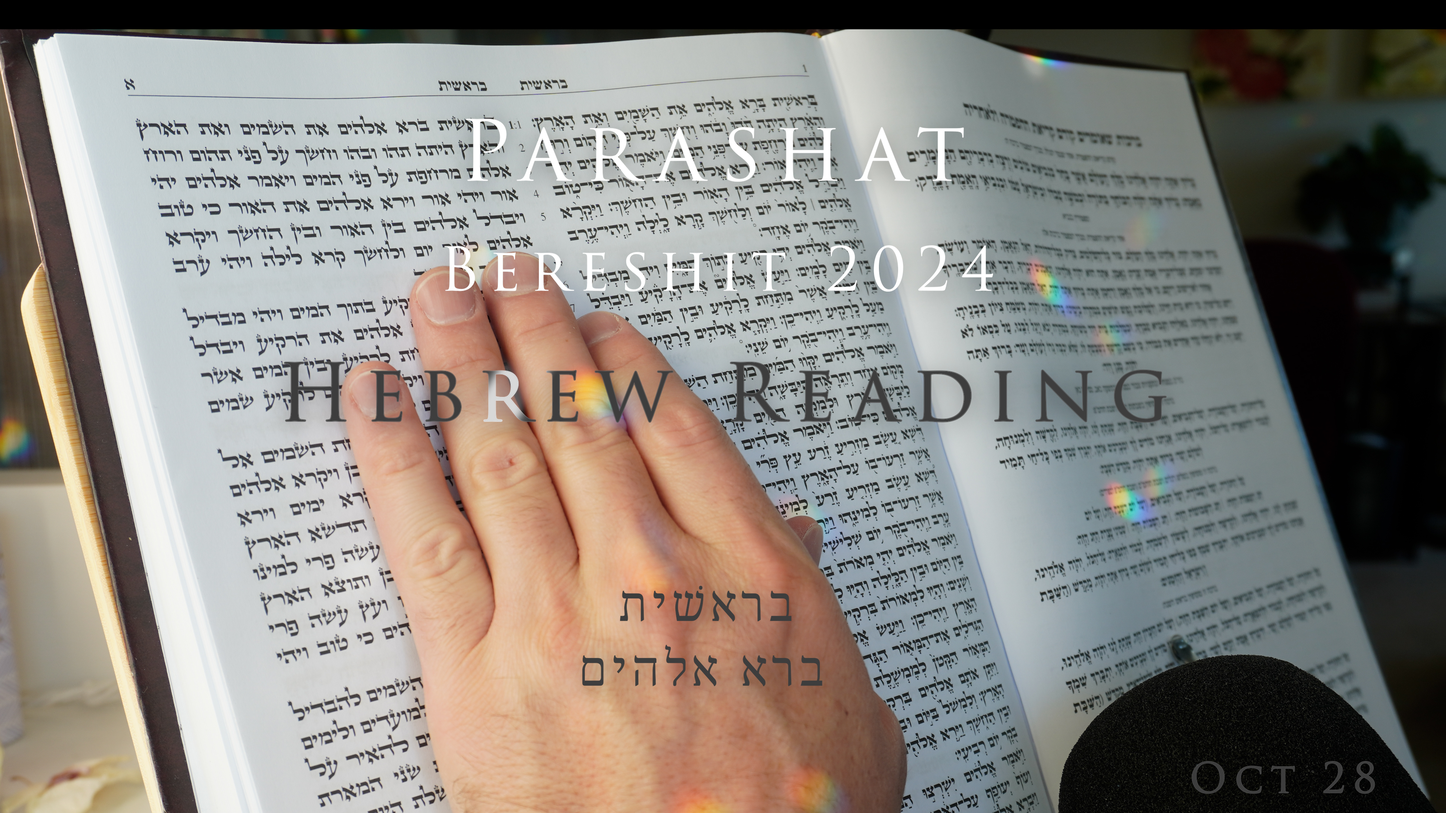
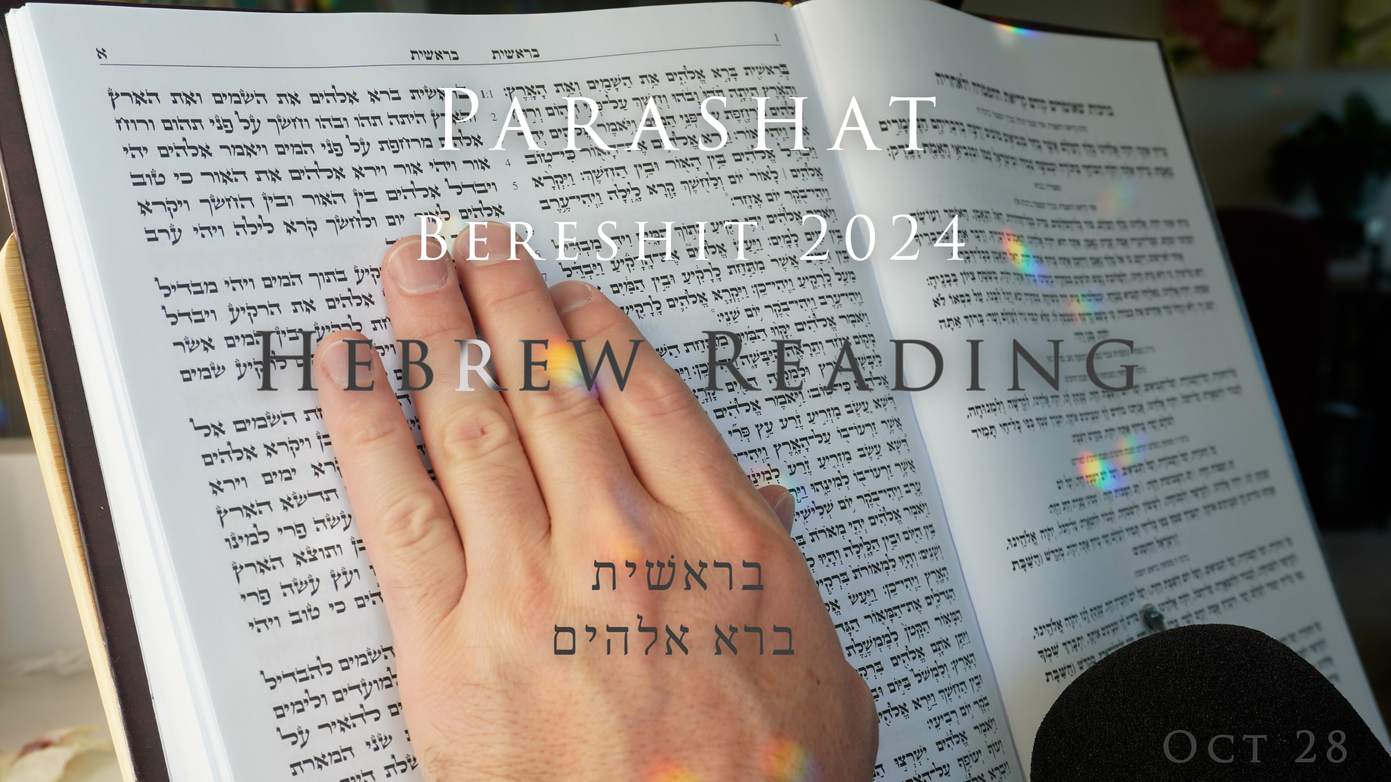
-

diff --git a/shows/2024-10-26-parashat-bereshit-reading/readme.md b/shows/2024-10-26-parashat-bereshit-reading/readme.md
@@ -9,6 +9,16 @@ October 26, 2024 (reading date, upload Oct 31)
 
 ## Chapters / Description
 
+00:00 - Opening
+00:21 - Lord's Prayer (Aramaic)
+01:14 - Intro
+02:01 - Genesis 1
+08:56 - Genesis 2
+13:44 - Genesis 3
+20:23 - Genesis 4
+26:18 - Genesis 5
+32:22 - Genesis 6:1-8
+
 This last Shabbat (October 26, 2024) was the first reading of the Torah cycle which just began (following as it does the end of Tabernacles). This portion contains Genesis 1 - 6:8. Join me as I read the entire parashah in one go, straight through. If I were braver I would have read from the unvocalized text, which actually would not be too difficult given I am quite familiar with these passages, but given I am starting some things out with such readings, I went the easier route and am reading from the vocalized.
 
 At the same time I have gone to great lengths to capture a beautiful physical text from which I am reading. At the same time I also put the Hebrew and English translation so you can follow along. (It's been a long journey learning how to do all of this in Premier Pro, but even bigger is I've had a ton to learn to do proper audio processing in Audition)
